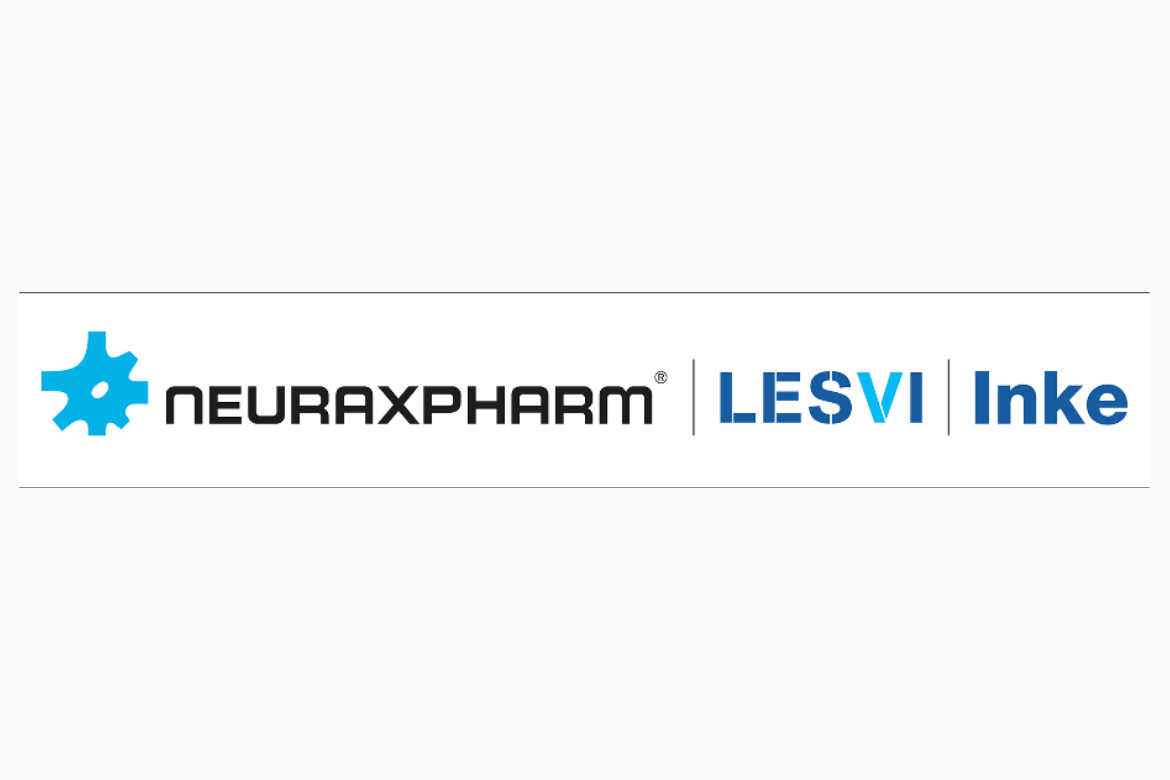
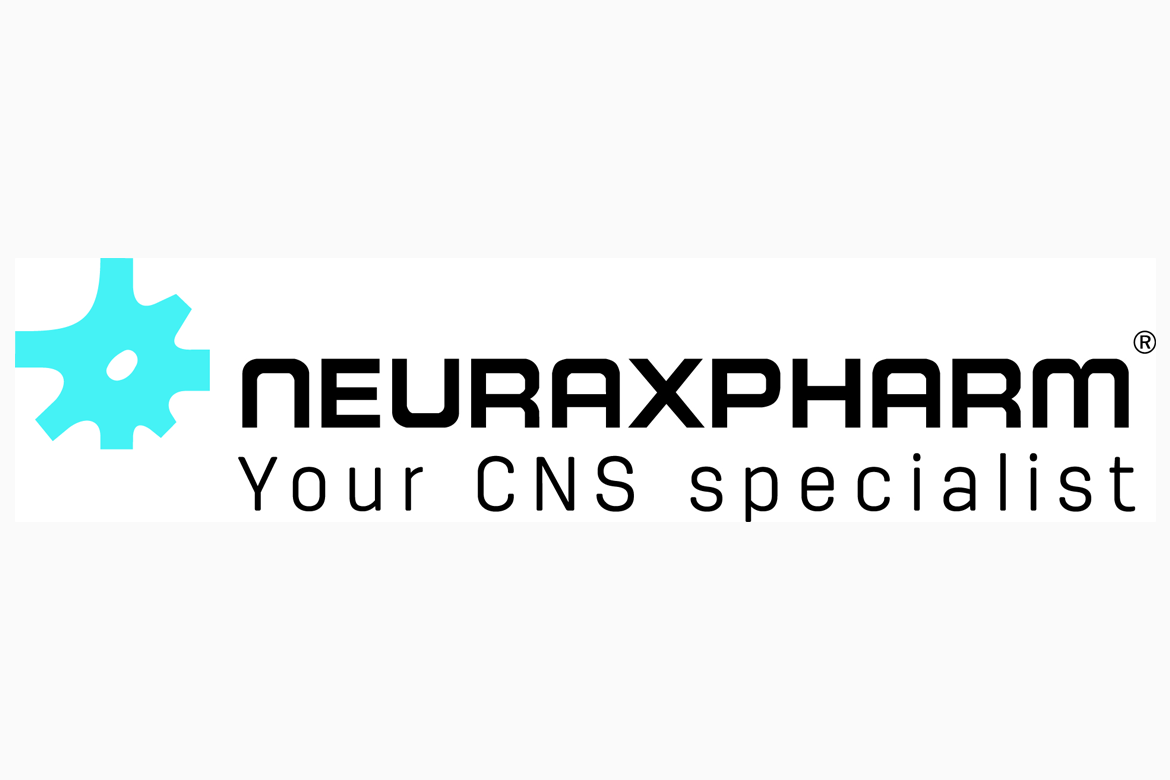
+ data

diff --git a/resources/views/index.blade.php b/resources/views/index.blade.php
@@ -100,7 +100,7 @@
         <div class="row">
             <div class="col-md-3 col-sm-6 col-xs-6 col-xxs-12">
                 <div class="patrocinador">
-                    <img src="{{asset("images/sponsors/neuraxpharm.jpg")}}" alt="Jaba Recordati" class="img-responsive img-rounded to-animate" style="width: 70%">
+                    <img src="{{asset("images/sponsors/neuraxpharm2.png")}}" alt="Jaba Recordati" class="img-responsive img-rounded to-animate" style="width: 70%">
                 </div>
             </div>
             <div class="col-md-3 col-sm-6 col-xs-6 col-xxs-12">
